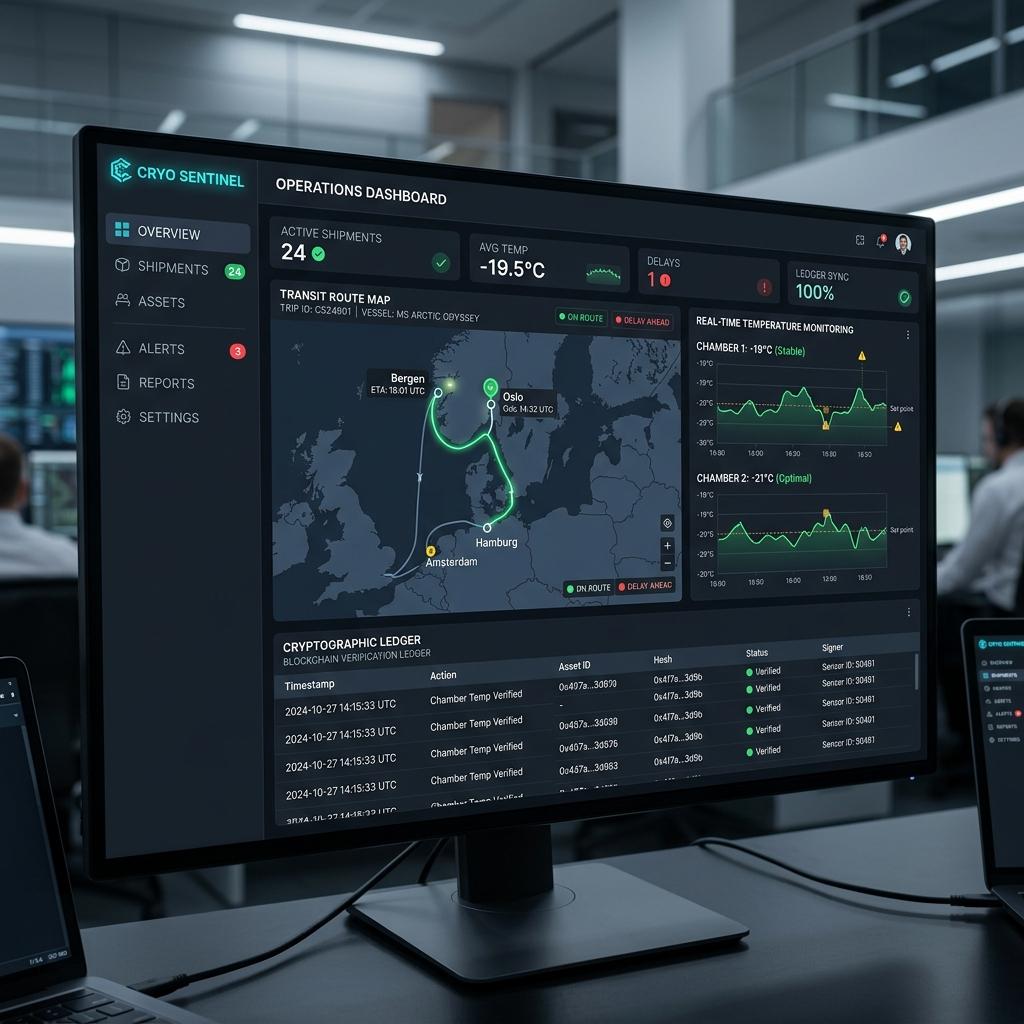
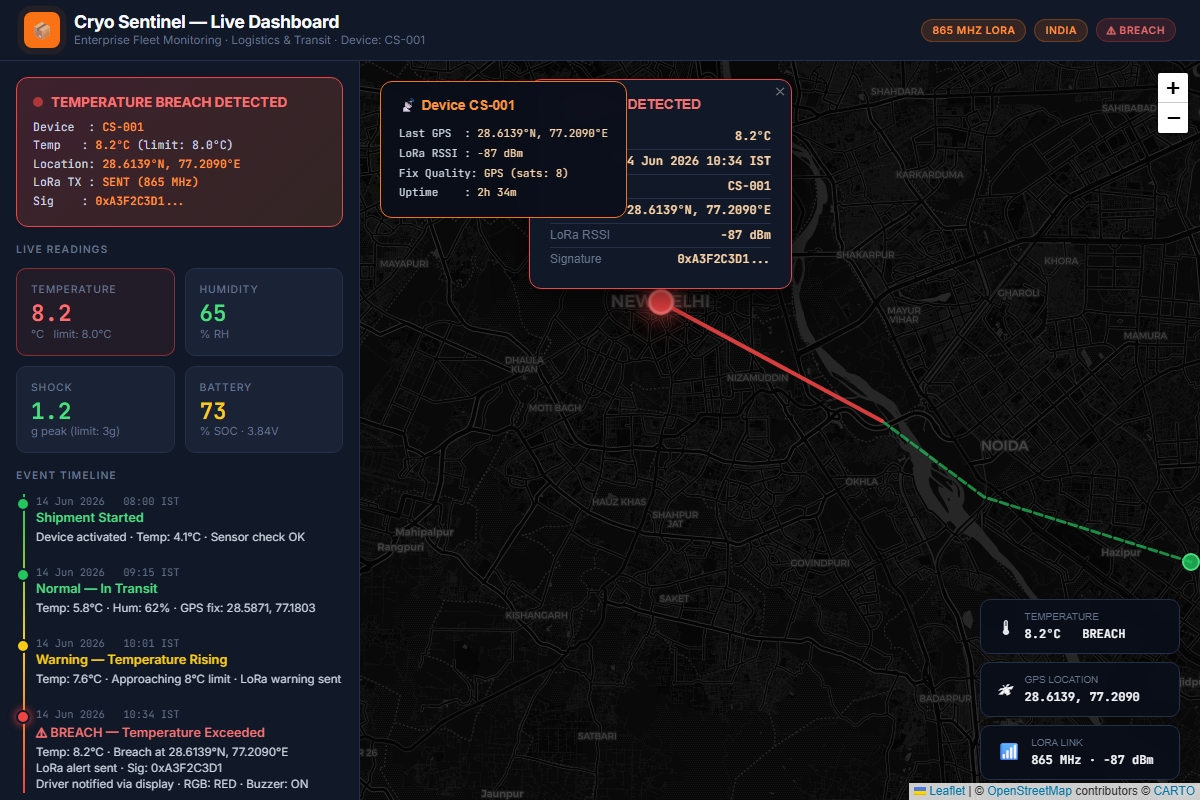
Restore actual dashboard screenshots and properly name them

diff --git a/README.md b/README.md
@@ -135,7 +135,7 @@ The dashboard displays real-time state changes as the cargo travels, transitioni
 
 | Normal Operation | Warning Threshold | Critical Breach Alert |
 | :---: | :---: | :---: |
-| ![Timeline Normal](docs/images/media_1.png) | ![Timeline Warning](docs/images/media_2.png) | ![Timeline Breach](docs/images/media_3.png) |
+| ![Timeline Normal](docs/images/timeline_normal.png) | ![Timeline Warning](docs/images/timeline_warning.png) | ![Timeline Breach](docs/images/timeline_breach.png) |
 
 #### 🔌 PCB Design & Schematic Layout
 * **Schematic Design Layout**: Below is the fully updated schematic overview for pinouts, bus routing, and secure element integration.